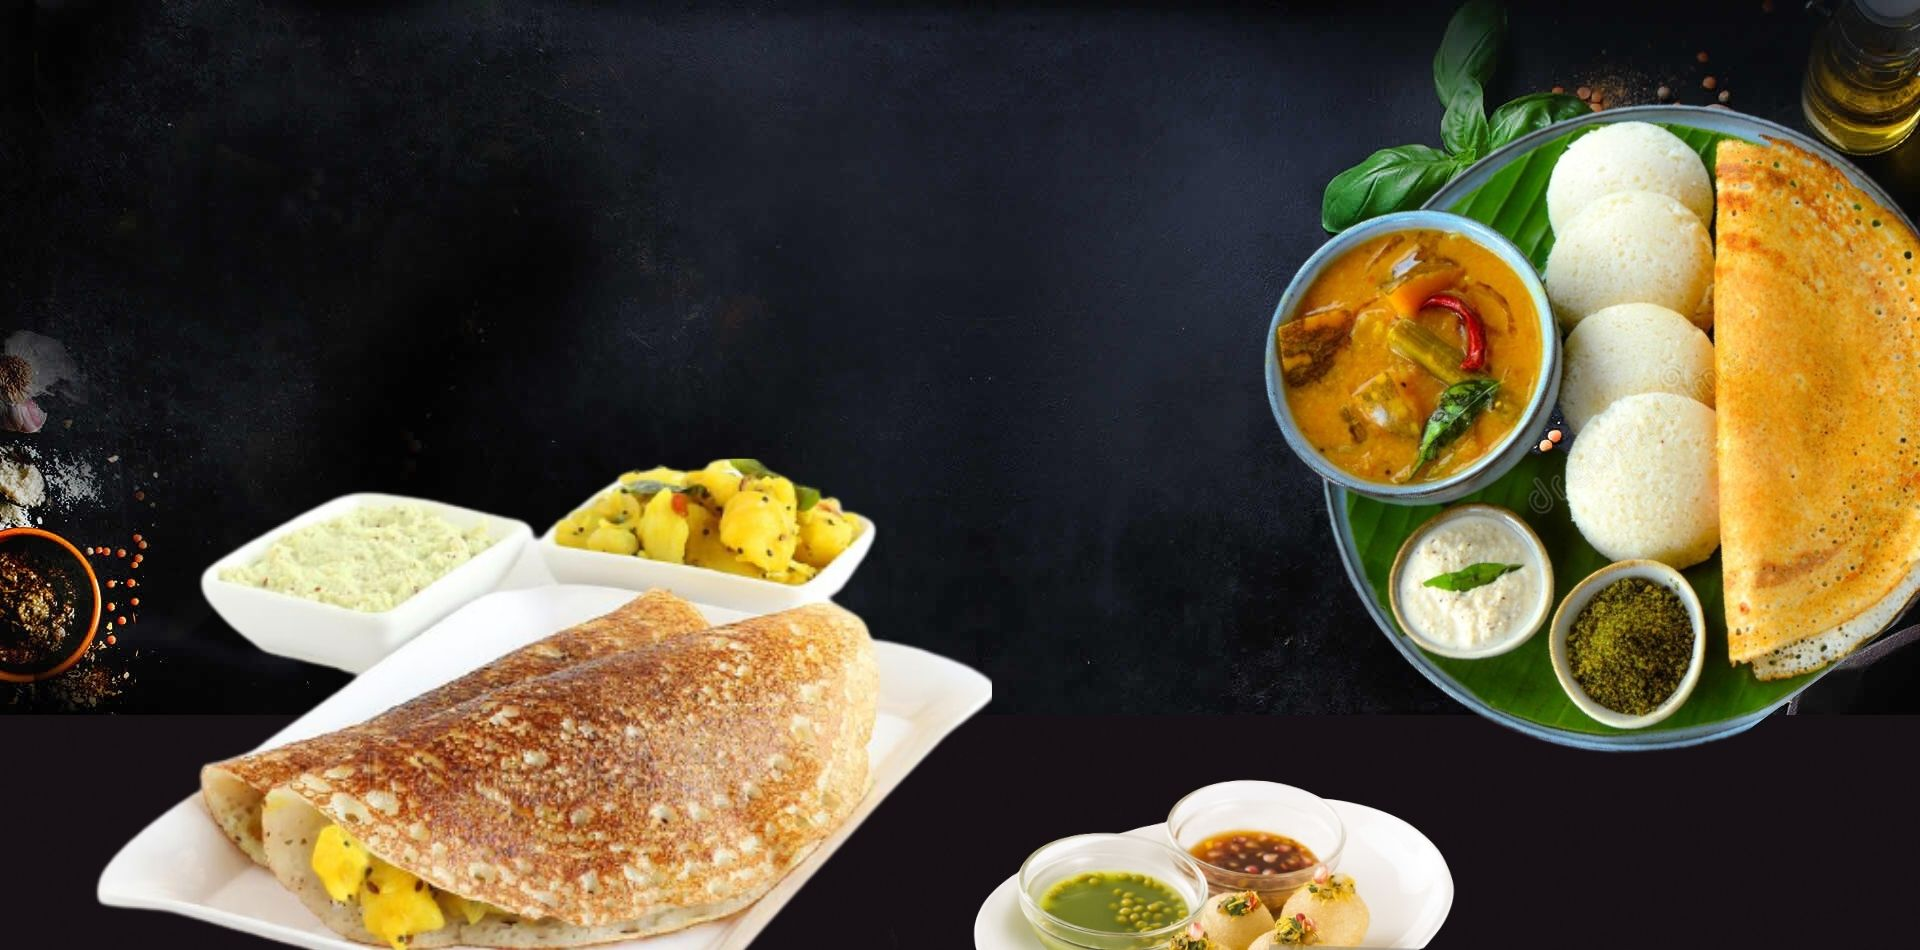
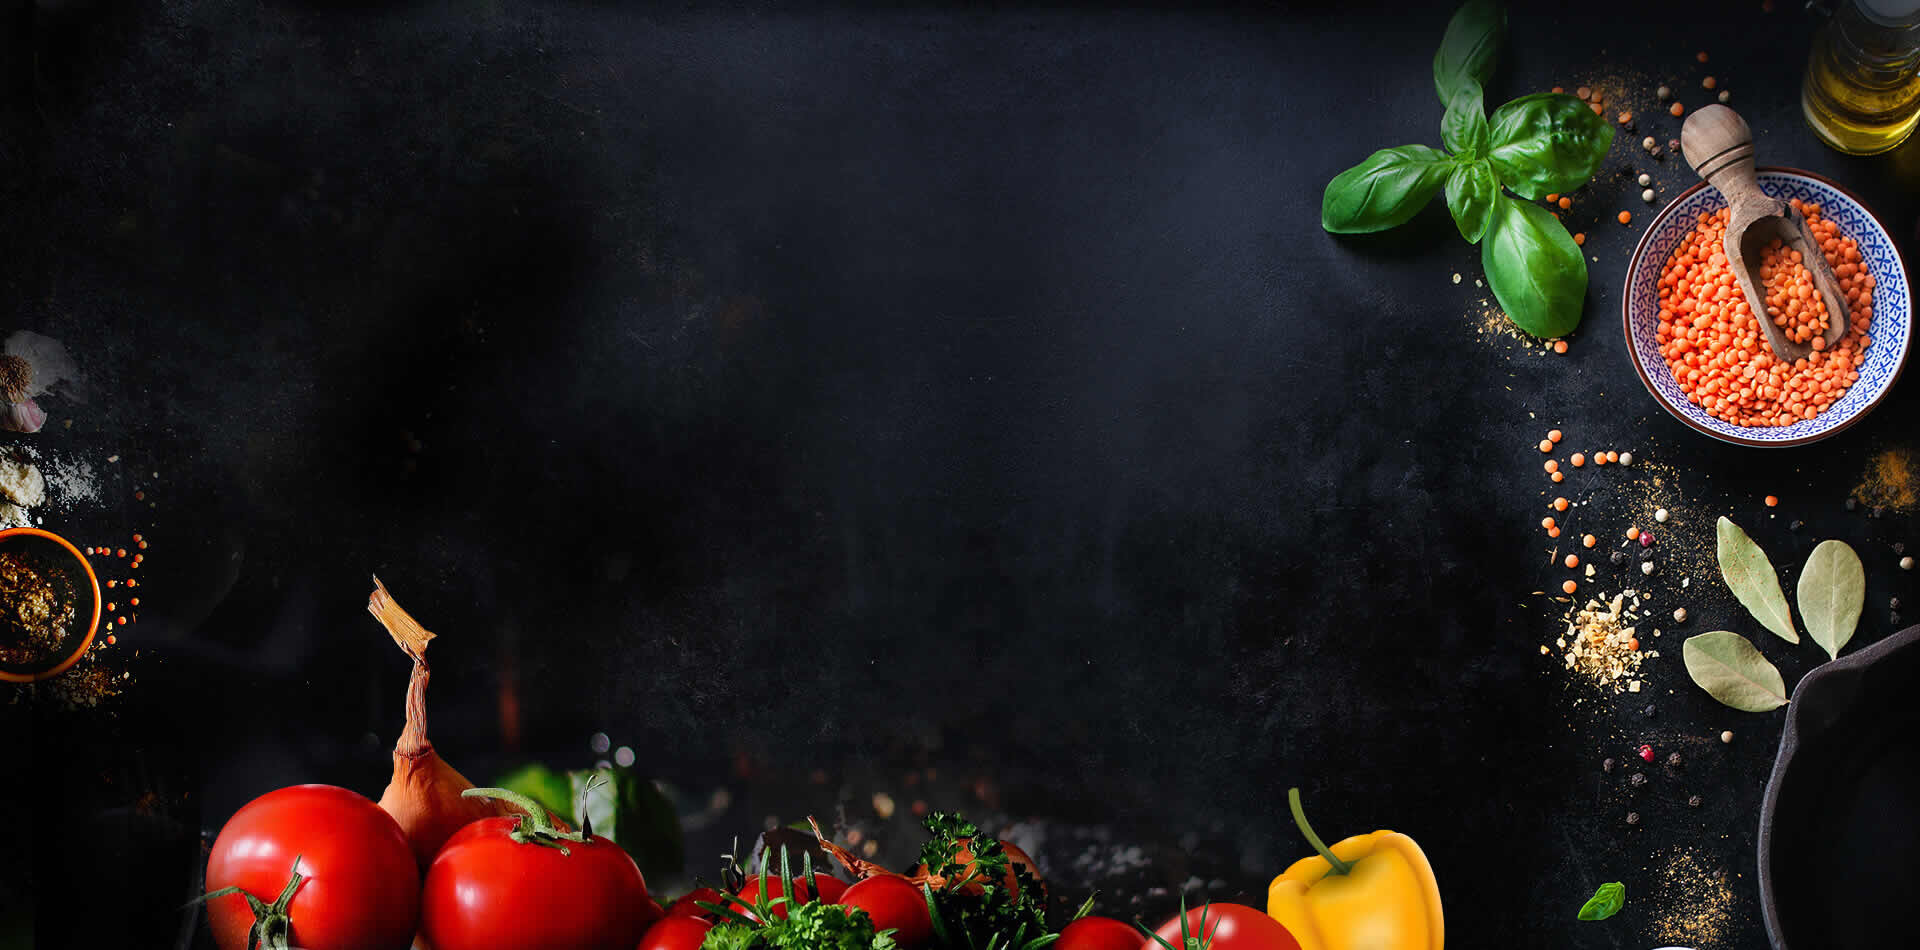
change header image and menu background color

diff --git a/index.html b/index.html
@@ -238,15 +238,15 @@
     </div>
     <!-- end special-menu -->
 
-    <div id="menu" class="menu-main pad-top-100 pad-bottom-100">
-        <div class="container">
-            <div class="row">
-                <div class="col-lg-12 col-md-12 col-sm-12 col-xs-12">
+    <div id="menu" class="menu-main pad-top-100 pad-bottom-100" style="background-color: black;">
+        <div class="container" >
+            <div class="row" >
+                <div class="col-lg-12 col-md-12 col-sm-12 col-xs-12" >
                     <div class="wow fadeIn" data-wow-duration="1s" data-wow-delay="0.1s">
                         <h2 class="block-title text-center">
 						Our Menu 	
 					</h2>
-                        <p class="title-caption text-center">Welcome to Winnipeg Get variety of Street Food and Shakes Bar.  </p>
+                        <p class="title-caption text-center " style="color: white;">Welcome to Winnipeg Get variety of Street Food and Shakes Bar.  </p>
                     </div>
                     <div class="tab-menu">
                         <div class="slider slider-nav">
@@ -268,7 +268,7 @@
                             </div>
                             
                         </div>
-                        <div class="slider slider-single">
+                        <div class="slider slider-single"style="background-color: black;">
                             <div> 
                                  <!-- end col -->
                                  <div class="col-lg-6 col-md-6 col-sm-12 col-xs-12 ">
@@ -354,7 +354,7 @@
                                                 THICK VEGETABLE CURRY PREPARED IN BUTTER AND SERVED WITH A SOFT BREAD ROLL.
                                             </p>
                                         </div>
-                                        <span class="offer-price">$6.5</span>
+                                        <span class="offer-price">$8</span>
                                     </div>
                                 </div>
                                 <!-- end col -->
@@ -368,7 +368,7 @@
                                                 GRILLED ALOO TIKKI IN A BUN, TOPPED WITH CHICKPEAS, TOMATOES, ONIONS, AND A HOUSE HERB DRESSING.
                                             </p>
                                         </div>
-                                        <span class="offer-price">$6.5</span>
+                                        <span class="offer-price">$7</span>
                                     </div>
                                 </div>
                                 <!-- end col -->
@@ -397,7 +397,7 @@
                                                 CRISPY POTATO FRIES SPRINKLED WITH CHAT MASALA, TOPPED WITH SWEET TAMARIND SAUCE AND HOT CORIANDER CHUTNEY.
                                             </p>
                                         </div>
-                                        <span class="offer-price">$6.5</span>
+                                        <span class="offer-price">$7</span>
                                     </div>
                                 </div>
                                 <div class="col-lg-6 col-md-6 col-sm-12 col-xs-12 ">
@@ -409,7 +409,7 @@
                                                 POTATO FRITTERS SEASONED WITH HOUSE SPICES AND SERVED WITH A SWEETENED BREAD.
                                             </p>
                                         </div>
-                                        <span class="offer-price">$6.5</span>
+                                        <span class="offer-price">$8</span>
                                     </div>
                                 </div>
                                 <!-- end col -->
@@ -437,7 +437,7 @@
                                                 A CLASSIC GRILLED CHEESE SANDWICH WITH YOUR CHOICE TO ADD ROYAL PAAN’S HOUSE-MADE GREEN CHUTNEY, SERVED ON WHOLE WHEAT BREAD.
                                             </p>
                                         </div>
-                                        <span class="offer-price">$10</span>
+                                        <span class="offer-price">$7</span>
                                     </div>
                                 </div>
                                   <!-- end col -->
@@ -463,7 +463,7 @@
                                                     TANGY SAUCY PANEER SAUTEED WITH ONIONS AND VEGETABLES, WRAPPED IN A KATHI ROLL, SERVED WITH SWEET TAMARIND SAUCE AND HOT CORIANDER CHUTNEY.
                                                 </p>
                                             </div>
-                                            <span class="offer-price">$10</span>
+                                            <span class="offer-price">$6</span>
                                         </div>
                                     </div>
                                   <!-- end col -->
@@ -476,7 +476,7 @@
                                                 SEASONED POTATOES, GREEN AND RED PEPPERS, ONIONS, AND CUCUMBER, SERVED ON WHOLE WHEAT BREAD.
                                             </p>
                                         </div>
-                                        <span class="offer-price">$10</span>
+                                        <span class="offer-price">$8</span>
                                     </div>
                                 </div>
                               
@@ -495,7 +495,7 @@
                                                 FLAVOURFUL MILKSHAKES.
                                             </p>
                                         </div>
-                                        <span class="offer-price">$10</span>
+                                        <span class="offer-price">$5</span>
                                     </div>
                                 </div>
                                 <div class="col-lg-6 col-md-6 col-sm-12 col-xs-12 ">
@@ -507,7 +507,7 @@
                                                 DELICIOUS FALOODA WITH KULFI, RABRI, SEV, AND NUTS, TOPPED WITH ROSE, POPPY SEEDS, AND ALMOND SYRUPS.
                                             </p>
                                         </div>
-                                        <span class="offer-price">$4.5</span>
+                                        <span class="offer-price">$8</span>
                                     </div>
                                 </div>
                                 <!-- end col -->
@@ -520,7 +520,7 @@
                                              KHOYA | KESAR BADAM | MENGO | PISTA
                                             </p>
                                         </div>
-                                        <span class="offer-price">$9.5</span>
+                                        <span class="offer-price">$3.5</span>
                                     </div>
                                 </div>
                               
@@ -533,7 +533,7 @@
                                                 A MISH MASH (FALOODA) OF YOUR CHOICE OF ICE CREAM, BASIL SEEDS, VERMICELLI NOODLES, AND ROSE SYRUP, WITH ALMONDS AND PISTACHIOS.
                                             </p>
                                         </div>
-                                        <span class="offer-price">$12.5</span>
+                                        <span class="offer-price">$6</span>
                                     </div>
                                 </div>
                                 <!-- end col -->
@@ -546,7 +546,7 @@
                                                 A THIRST QUENCHING YOGURT DRINK MADE IN FLAVOUR OF YOUR CHOICE.
                                             </p>
                                         </div>
-                                        <span class="offer-price">$9.5</span>
+                                        <span class="offer-price">$5</span>
                                     </div>
                                 </div>
                                 <!-- end col -->

diff --git a/css/style.css b/css/style.css
@@ -870,7 +870,7 @@ html, body{ height: 100%; }
     -ms-transform: translate(0, -50%);
     -webkit-transform: translate(0, -50%);
     transform: translate(0, -50%);
-    color: #000;
+    color: white;
     font-size: 26px;
     font-family: 'Roboto', sans-serif;
     text-align: center;
@@ -886,7 +886,7 @@ html, body{ height: 100%; }
 }
 
 .offer-item div p {
-    color: #6b6b6b;
+    color: white;
 }
 
 
